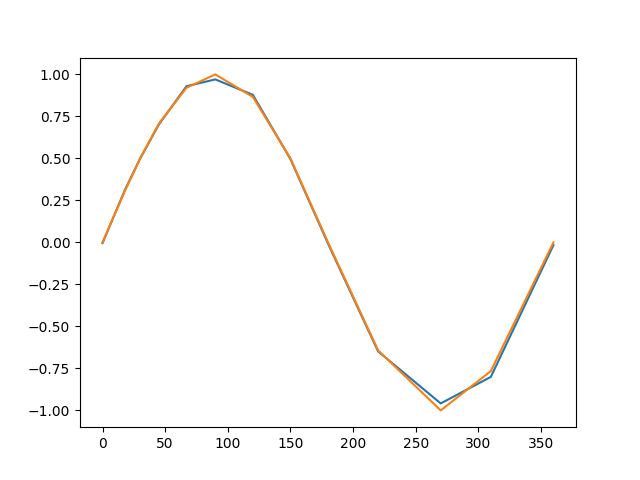
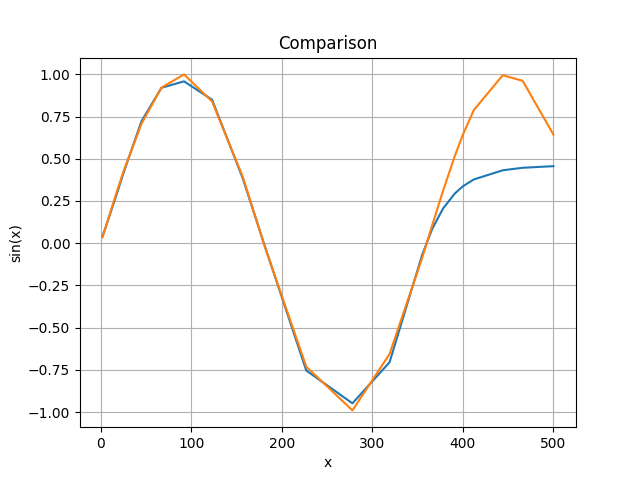
added a readme

diff --git a/main_2.py b/main_2.py
@@ -6,12 +6,13 @@ np.random.seed(4) # initialize random seed
 # Neural Net Design
 num_of_layers = 3
 hidden_layer_size = 10
-epochs = 50000
+epochs = 10000
+lr = 0.1
 
 # input layer -> hidden layer -> output layer
 # 1 neuron -> 5 neurons -> 1 neuron
 
-x_deg = np.arange(0, 361, 1) # [0, 10, 20, 30, ..., 360]
+x_deg = np.arange(0, 361, 10) # [0, 10, 20, 30, ..., 360]
 x_rad = np.deg2rad(x_deg)
 y = np.sin(x_rad) # y = y(x) = sin(x)
 xy_pairs = np.column_stack((x_rad, y))
@@ -68,10 +69,10 @@ for i in range(epochs):
         grad_weight_coef_layer_3 = gradient[2]
         grad_bias_layer_3 = gradient[3]
 
-        w1 = w1 - 0.01 * grad_weight_coef_layer_2
-        b1 = b1 - 0.01 * grad_bias_layer_2
-        w2 = w2 - 0.01 * grad_weight_coef_layer_3
-        b2 = b2 - 0.01 * grad_bias_layer_3
+        w1 = w1 - lr * grad_weight_coef_layer_2
+        b1 = b1 - lr * grad_bias_layer_2
+        w2 = w2 - lr * grad_weight_coef_layer_3
+        b2 = b2 - lr * grad_bias_layer_3
 
     if i % 500 == 0:
         print(f"Iteration {i}, Total Cost = {total_cost}")

diff --git a/main_4.py b/main_4.py
@@ -16,7 +16,7 @@ def scaled_sigmoid(sigmoid):
     return 2*(sigmoid) - 1
 
 # Example
-test_angles = [0, 5, 18, 30, 45, 67, 90, 120, 150, 180, 220, 270, 310, 360]
+test_angles = [2, 5, 18, 25, 45, 67, 92, 123, 157, 181, 227, 278, 319, 355, 366, 378, 391, 400, 412, 444, 466, 500]
 outputs_neural_network = []
 true_values = []
 
@@ -48,4 +48,8 @@ for i in range(len(test_angles)):
 
 plt.plot(test_angles, outputs_neural_network)
 plt.plot(test_angles, true_values)
+plt.title("Comparison")
+plt.xlabel("x")
+plt.ylabel("sin(x)")
+plt.grid()
 plt.savefig("plot.png")

diff --git a/README.md b/README.md
@@ -1,0 +1,291 @@
+# Calculating sin(x) with a neural network
+
+*Purpose: to train a neural network in order to calculate the function y=sin(x) where x is a number (an angle in radians).*
+
+## Theoretical basics
+
+### 1. Architecture
+
+The architecture of the neural network is: 1 input layer, 1 hidden layer, and 1 output layer. The input layer is made of 1 single input neuron, the hidden layer contains 5 neurons, and the output layer again has just 1 neuron. The input neuron holds the value of the independant variable x, i.e. the angle in radians and the output neuron is the predicted value of sin(x).
+
+The total number of parameters needed for this network is 16. We need 5 weight coeficients between the input layer and hidden layer, 5 biases for the hidden layer, 5 more weight coeficients between the hidden and output layer and 1 more bias for the output layer.
+
+### 2. Activation function
+
+The standard sigmoid function was used as an activation function: 
+$$
+\sigma(z) = \frac{1} {1 + e^{-z}} \tag{1}
+$$
+but since this function outputs values between 0 and 1, and the sin(x) has range [-1,1], I scaled it as $2\sigma(z) - 1$ and the used activation function is:
+$$
+f(z) = 2\sigma(z) - 1 = \frac{2} {1 + e^{-z}} - 1 \tag{2}
+$$
+
+### 3. Forward pass
+For an input x we have 5 activations in the hidden layer and 1 ouput value from the output neuron. To calculate the activation of the first neuron in the hidden layer first we calculate $z_{1}^{(2)}$ and then we calculate the activation $a_{1}^{(2)}$. Here, (2) in the upper right angle, and the 1 below it stands for first neuron from the second layer. We calculate these values like this:
+
+$$ 
+z_{1}^{(2)} = w_{1}^{(2)}x+b_{1}^{(2)}
+$$
+
+$$
+a_{1}^{(2)} = f(z_{1}^{(2)})
+$$
+
+In matrix form for all 5 neurons:
+
+$$
+\begin{bmatrix}
+z_{1}^{(2)} \\
+z_{2}^{(2)} \\
+z_{3}^{(2)} \\
+z_{4}^{(2)} \\
+z_{5}^{(2)}
+\end{bmatrix} =
+
+\begin{bmatrix}
+w_{1}^{(2)} \\
+w_{2}^{(2)} \\
+w_{3}^{(2)} \\
+w_{4}^{(2)} \\
+w_{5}^{(2)}
+\end{bmatrix} x +
+
+\begin{bmatrix}
+b_{1}^{(2)} \\
+b_{2}^{(2)} \\
+b_{3}^{(2)} \\
+b_{4}^{(2)} \\
+b_{5}^{(2)}
+\end{bmatrix} \tag{3}
+$$
+
+$$
+\begin{bmatrix}
+a_{1}^{(2)} \\
+a_{2}^{(2)} \\
+a_{3}^{(2)} \\
+a_{4}^{(2)} \\
+a_{5}^{(2)}
+\end{bmatrix} = 
+
+f(
+\begin{bmatrix}
+z_{1}^{(2)} \\
+z_{2}^{(2)} \\
+z_{3}^{(2)} \\
+z_{4}^{(2)} \\
+z_{5}^{(2)}
+\end{bmatrix}) \tag{4}
+$$
+
+To calculate the activation of the output neuron, that is the prediction of sin(x) we first calculate:
+
+$$
+z = w_{1}^{(3)}a_{1}^{(2)} + w_{2}^{(3)}a_{2}^{(2)} + ... + w_{5}^{(3)}a_{5}^{(2)} + b^{(3)}
+$$
+
+In matrix form:
+
+$$
+z = 
+\begin{bmatrix}
+w_{1}^{(3)} & w_{2}^{(3)} & w_{3}^{(3)} & w_{4}^{(3)} & w_{5}^{(3)}
+\end{bmatrix}
+
+\begin{bmatrix}
+a_{1}^{(2)} \\
+a_{2}^{(2)} \\
+a_{3}^{(2)} \\
+a_{4}^{(2)} \\
+a_{5}^{(2)}
+\end{bmatrix} 
+
++ b^{(3)}  \tag{5}
+$$
+And now, the activation of the output neuron, that is the prediction of the neural network for the sin(x) is:
+$$
+a = f(z) \tag{6}
+$$
+
+To make the network "learn" we need to define something called a cost function:
+
+$$
+C = \frac{1} {2} (a - y)^{2}  \tag{7}
+$$
+
+where $y$ stands for the true value of $sin(x)$, for example if $x=\frac{\pi} {2}$ then $y=1$. We need to minimize the value of the cost function. In order to that we need to find such weight coeficients and biases such that the value of the cost function be minimal. We need to update the parameters after each run of the network in order to change the cost function value. To do that we need the gradient of the cost function which is calculated using the backpropagation algorithm.
+
+### 4. Backpropagation
+
+The gradient of the cost function is:
+$$
+\begin{aligned}
+\nabla C = \frac{\partial C} {\partial w_{1}^{(3)}}\vec{e_{1}} +
+           ... +
+           \frac{\partial C} {\partial w_{5}^{(3)}}\vec{e_{5}} +
+           \frac{\partial C} {\partial b^{(3)}}\vec{e_{6}} + \\
+           \frac{\partial C} {\partial w_{1}^{(2)}}\vec{e_{7}} +
+           \frac{\partial C} {\partial w_{2}^{(2)}}\vec{e_{8}} +
+           ... +
+           \frac{\partial C} {\partial w_{5}^{(2)}}\vec{e_{11}} + \\
+           \frac{\partial C} {\partial b_{1}^{(2)}}\vec{e_{12}} +
+           \frac{\partial C} {\partial b_{2}^{(2)}}\vec{e_{13}} +
+           ... +
+           \frac{\partial C} {\partial b_{5}^{(2)}}\vec{e_{16}} \tag{8}
+\end{aligned}
+$$
+
+We will calculate the partial derivatives like this:
+$$
+\frac{\partial C} {\partial w_{1}^{(3)}} =
+\frac{\partial C} {\partial a}
+\frac{\partial a} {\partial z}
+\frac{\partial z} {\partial w_{1}^{(3)}} =
+(a - y)\left\{f'(z)\right\} a_{1}^{(2)} =
+(a-y)\left\{2\sigma(z)(1-\sigma(z))\right\}a_{1}^{(2)}=
+Aa_{1}^{(2)}
+$$
+
+here $A=(a-y)\left\{2\sigma(z)(1-\sigma(z))\right\}$. Analogous, we have: $\frac{\partial C} {\partial w_{2}^{(3)}} = Aa_{2}^{(2)}$, ...,
+$\frac{\partial C} {\partial w_{5}^{(3)}} = Aa_{5}^{(2)}$.
+
+For the partial derivative of $C$ in terms of $b$ we have:
+$$
+\frac{\partial C} {\partial b^{(3)}} =
+\frac{\partial C} {\partial a}
+\frac{\partial a} {\partial z}
+\frac{\partial z} {\partial b^{(3)}} = A
+$$
+
+For the partial derivatives of $C$ in terms of $w_{i}^{(2)}$ we have:
+$$
+\frac{\partial C} {\partial w_{1}^{(2)}} =
+\frac{\partial C} {\partial a}
+\frac{\partial a} {\partial z}
+\frac{\partial z} {\partial a_{1}^{(2)}}
+\frac{\partial a_{1}^{(2)}} {\partial z_{1}^{(2)}}
+\frac{\partial z_{1}^{(2)}} {\partial w_{1}^{(2)}} =
+(a-y)f'(z)w_{1}^{(3)}f'(z_{1}^{(2)})x =
+Aw_{1}^{(3)}
+\left\{2\sigma(z_{1}^{(2)}) (1 - \sigma(z_{1}^{(2)}))\right\}x
+$$
+
+$$
+\frac{\partial C} {\partial w_{2}^{(2)}} =
+\frac{\partial C} {\partial a}
+\frac{\partial a} {\partial z}
+\frac{\partial z} {\partial a_{2}^{(2)}}
+\frac{\partial a_{2}^{(2)}} {\partial z_{2}^{(2)}}
+\frac{\partial z_{2}^{(2)}} {\partial w_{2}^{(2)}} =
+(a-y)f'(z)w_{2}^{(3)}f'(z_{2}^{(2)})x =
+Aw_{2}^{(3)}
+\left\{2\sigma(z_{2}^{(2)}) (1 - \sigma(z_{2}^{(2)}))\right\}x
+$$
+
+$$ etc $$
+
+For the partial derivatives of $C$ in terms of $b_{i}^{(2)}$ we have:
+$$
+\frac{\partial C} {\partial b_{1}^{(2)}} = 
+\frac{\partial C} {\partial a}
+\frac{\partial a} {\partial z}
+\frac{\partial z} {\partial a_{1}^{(2)}}
+\frac{\partial a_{1}^{(2)}} {\partial z_{1}^{(2)}}
+\frac{\partial z_{1}^{(2)}} {\partial b_{1}^{(2)}} =
+(a-y)f'(z)w_{1}^{(3)}f'(z_{1}^{(2)}) = 
+Aw_{1}^{(3)}\left\{ 2\sigma(z_{1}^{(2)})(1- \sigma(z_{1}^{(2)}))\right\}
+$$
+
+$$
+\frac{\partial C} {\partial b_{2}^{(2)}} = 
+\frac{\partial C} {\partial a}
+\frac{\partial a} {\partial z}
+\frac{\partial z} {\partial a_{2}^{(2)}}
+\frac{\partial a_{2}^{(2)}} {\partial z_{2}^{(2)}}
+\frac{\partial z_{2}^{(2)}} {\partial b_{2}^{(2)}} =
+(a-y)f'(z)w_{2}^{(3)}f'(z_{2}^{(2)}) = 
+Aw_{2}^{(3)}\left\{ 2\sigma(z_{2}^{(2)})(1- \sigma(z_{2}^{(2)}))\right\}
+$$
+
+$$ etc $$
+
+Finally for the gradient we have:
+
+$$
+\nabla C = A
+\begin{bmatrix}
+a_{1}^{(2)} \\
+a_{2}^{(2)} \\
+\vdots \\
+a_{5}^{(2)} \\
+1 \\
+w_{1}^{(3)}2\sigma(z_{1}^{(2)})(1 - \sigma(z_{1}^{(2)}))x \\
+\vdots \\
+w_{5}^{(3)}2\sigma(z_{5}^{(2)})(1 - \sigma(z_{5}^{(2)}))x \\
+w_{1}^{(3)}2\sigma(z_{1}^{(2)})(1 - \sigma(z_{1}^{(2)})) \\
+\vdots \\
+w_{5}^{(3)}2\sigma(z_{5}^{(2)})(1 - \sigma(z_{5}^{(2)}))
+\end{bmatrix}
+_{16 \times 1}
+
+$$
+
+Now, we update the parameters like this:
+
+$$
+\begin{bmatrix}
+w_{1}^{(3)} \\
+\vdots \\
+w_{5}^{(3)} \\
+b^{(3)} \\
+w_{1}^{(2)} \\
+\vdots \\
+w_{5}^{(2)} \\
+b_{1}^{(2)} \\
+\vdots \\
+b_{5}^{(2)} \\
+\end{bmatrix}
+_{new} =
+
+\begin{bmatrix}
+w_{1}^{(3)} \\
+\vdots \\
+w_{5}^{(3)} \\
+b^{(3)} \\
+w_{1}^{(2)} \\
+\vdots \\
+w_{5}^{(2)} \\
+b_{1}^{(2)} \\
+\vdots \\
+b_{5}^{(2)} \\
+\end{bmatrix}
+_{old} - \eta \nabla C
+$$
+
+$\eta$ is a number which represents by how much we want to change the parameters. The success of the network depends on the value of $\eta$ we choose.
+
+After repeating this process for each training example over many epochs, the network's parameters converge and the network successfully approximates sin(x).
+
+## Training the network
+In order to train the network, we need two arrays with data. The ```x``` array holds angles provided in degrees (the program converts them to radians) and ```y``` array holds the true values of ```sin(x)```.
+```python
+x = [0, 10, 20, 30, ..., 360]
+y = [0, 0.1736, 0.3420, 0.5, ..., 0]
+```
+Then we initialize the network's parameters with random values.  We also define the number of epochs we want. An epoch is one single run through all training pairs. A training pair is (x, y(x)). The success of the neural network depends on the number of epochs we choose. Each epoch starts with total cost equal to 0, and that cost adds up after every run though a pair of training data. The parameters are also changed after every run though a pair of training data. Another thing that is important to say is that whether the parameters will converge also depend on the value of the learning rate. If we give a too small value the parameters will converge very slowly while if we give a very big value they may go over the convergence values and start to diverge again.
+
+## Results
+
+After training the network, we are given a set of parameters which we can use in order to test the network on data it has not seen before.
+
+```python
+test_angles = [2, 5, 18, 25, 45, 67, 92, 123, 157, 181, 227, 278, 319, 355, 366, 378, 391, 400, 412, 444, 466, 500]
+learning_rate = 0.1
+epochs = 10000
+```
+Using this test data (it goes beyond 360 because of generalization), a learning rate of 0.1 and 10000 epochs, when we plot Predicted values (blue) VS True values (orange) we get:
+
+![Comparison Plot: Predicted VS True Values](plot.png)
+
+We can see that the neural network does relativly good on the interval [0, 360] but after that it does poorly. The reason is that the network was trained only on data from the interval [0, 360] and therefore has not learned to generalize beyond it.
